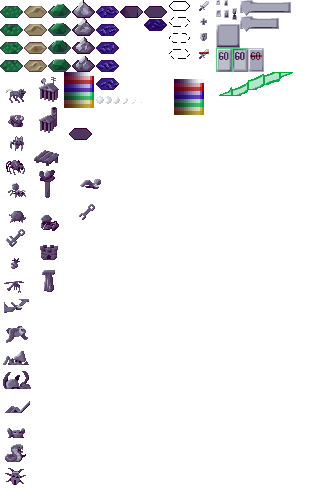
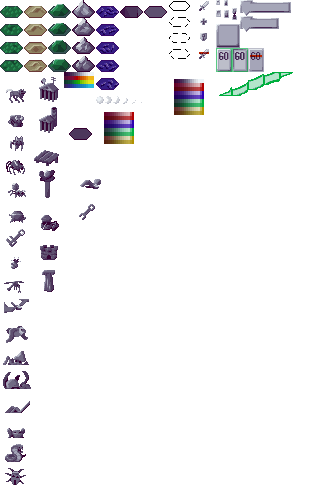
palette rework, none-type terrain

Changed region(s): [[0.2994, 0.2126, 0.4192, 0.3036], [0.1796, 0.1518, 0.2994, 0.2429], [0.4192, 0.0, 0.509, 0.0607]]

diff --git a/game/index.html b/game/index.html
@@ -16,18 +16,21 @@
 		<li>Space – switch editor mode:<ul>
 			<li>Terrain mode:<ul>
 				<li>IOP – select brush size</li>
-				<li>YXCVBN – select terrain type</li>
+				<li>YXCVBNM – select terrain type</li>
 			</ul></li>
 			<li>Building mode, unit mode:<ul>
-				<li>IOP – select player (0 = neutral)</li>
-				<li>YXCVB – select building or unit type</li>
+				<li>IOP – select player (I = neutral)</li>
+				<li>YXCVBNM – select building or unit type</li>
 			</ul></li>
 		</ul></li>
 	</ul>
 	<h1>Game controls</h1>
 	<ul>
+		<li>QE – change camera angle</li>
+		<li>WSAD – move camera</li>
 		<li>O – switch to editor <b>without</b> saving map</li>
 		<li>P – switch to editor with current map</li>
 		<li>Space – End current player turn</li>
+		<li>Tab – Toggle HP bars</li>
 	</ul>
 </body></html>

diff --git a/README.md b/README.md
@@ -240,14 +240,10 @@ As the action of their Temple-tron, a player can perform a ritualistic sacrifice
 ## TODO ##
 
  - QA
-   - map - "none" terrain
    - RMB - cancel turn
    - HP bars - toggle with button
    - moved / acted indicator
    - neutral units - capture?
-   - capture - not instant - building HP, capture consecutively with single unit
-     - capture - first into neutral (half the time), then into own
-   - action stats in modals
  - model / view architecture
    - model - game, map, units, etc, with no link to the view
      - easily extendable to AIs, local MP or even MP-over-server
